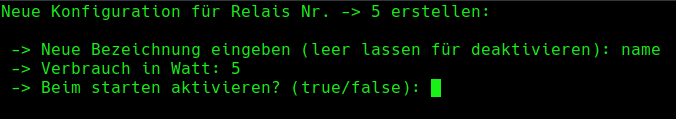
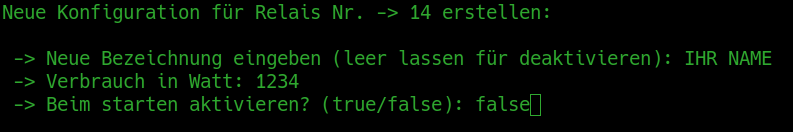
230V README.MD & Bilder aktualisiert

Changed region(s): [[0.0, 0.3529, 0.9941, 0.8824], [0.0, 0.0, 1.0, 0.1765]]

diff --git a/230V/README.md b/230V/README.md
@@ -29,15 +29,15 @@ Falls ein Relais geschaltet werden soll, so kann das mit dem Befehl
 <p align="left"> 
     <img src="img/set.png" style="width: 40%;" alt="Relais Status von Relais Nr. 4 einschalten" >
 </p><br>
-Um ein Relais von einer Zeitschaltuhr steuern zu lassem, kann der Befehl <code>230V 4 0 300 & disown</code> verwendet 
+Um ein Relais von einer Zeitschaltuhr ausschalten zu lassen, kann der Befehl <code>230V 4 0 300 & disown</code> verwendet 
 werden. In diesem Beispiel würde das Relais Nr. 4 ausgeschaltet werden nach 300 Sekunden. Die Parameter <code>& disown</code>
 können verwendet werden damit die Konsole wieder sofort verfügbar ist.
 <br><br>
 <p align="left"> 
-    <img src="img/set_time.png" style="width: 40%;" alt="Relais Status von Relais Nr. 4 nach 300 Sekunden ausschalten" >
+    <img src="img/set_time.png" style="width: 40%;" alt="Relais Status von Relais Nr. 14 nach 300 Sekunden ausschalten" >
 </p><br>
 Wenn ein Relais Eintrag verändert werden soll, z.B. Name, Leistungsaufnahme oder Automatisches Einschalten beim Starten,
-dann kann der Befehl <code>230V -set 5</code> verwendet werden. Hier würde jetzt das Relais Nr. 5 bearbeitet werden!
+dann kann der Befehl <code>230V -set 14</code> verwendet werden. Hier würde jetzt das Relais Nr. 14 bearbeitet werden!
 
 <br><br>
 <p align="left"> 
